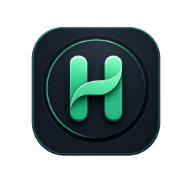
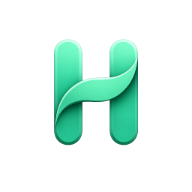
update 9 files

diff --git a/src/routes/index.tsx b/src/routes/index.tsx
@@ -444,7 +444,7 @@ function DesktopApp(p: AppProps) {
       >
         {/* Brand */}
         <div className="flex items-center gap-3 px-5 pt-6 pb-5">
-          <div className="grid size-9 shrink-0 place-items-center rounded-xl">
+          <div className="grid size-12 shrink-0 place-items-center rounded-xl">
             <img src="/logo.png" alt="Habito" className="size-full object-cover" />
           </div>
           <div>
@@ -1666,7 +1666,7 @@ function MobileApp(p: AppProps) {
         }}
       >
         <div className="flex items-center gap-2.5">
-          <div className="grid size-9 place-items-center rounded-xl">
+          <div className="grid size-12 place-items-center rounded-xl">
             <img src="/logo.png" alt="Habito" className="size-full object-cover" />
           </div>
           <div>

diff --git a/src/components/habits/HabitDetailDialog.tsx b/src/components/habits/HabitDetailDialog.tsx
@@ -627,7 +627,7 @@ export function HabitDetailDialog({ habit, onClose, onToggleDay }: Props) {
                   className="w-full resize-none rounded-xl border bg-[oklch(0_0_0_/_0.15)] px-3 py-2.5 text-sm text-foreground placeholder:text-muted-foreground/50 focus:outline-none transition-colors"
                   style={{
                     borderColor: `${color}30`,
-                    focusBorderColor: color,
+                    // focusBorderColor: color,
                   }}
                   onFocus={(e) => (e.target.style.borderColor = `${color}80`)}
                   onBlur={(e) => (e.target.style.borderColor = `${color}30`)}
